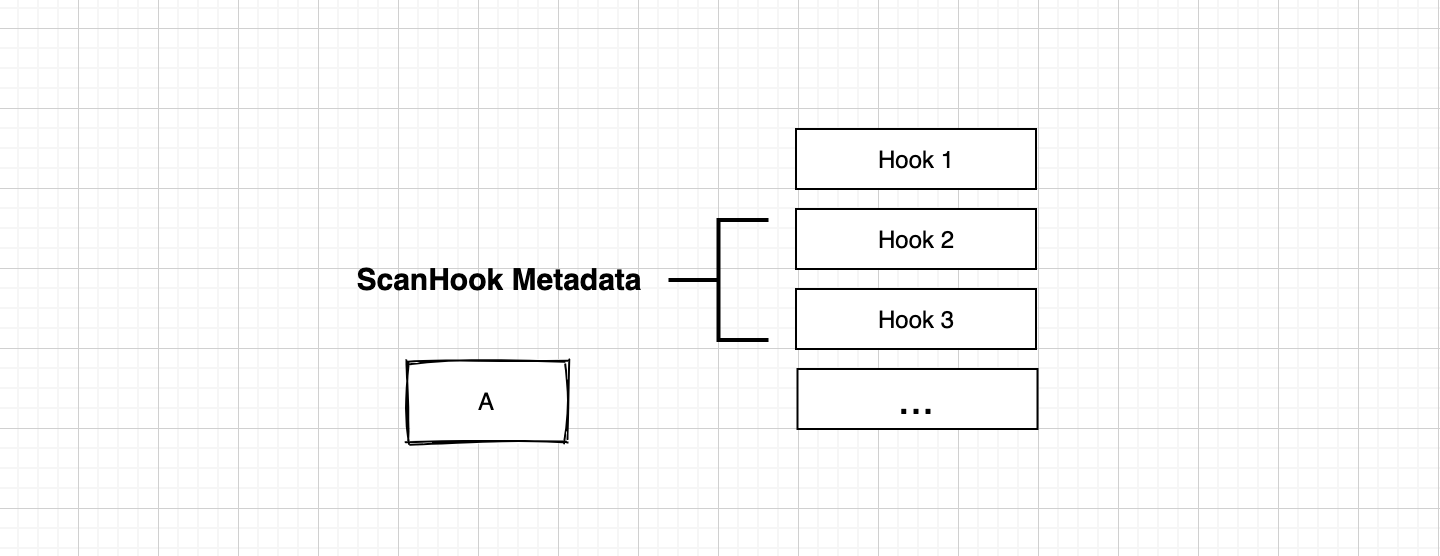
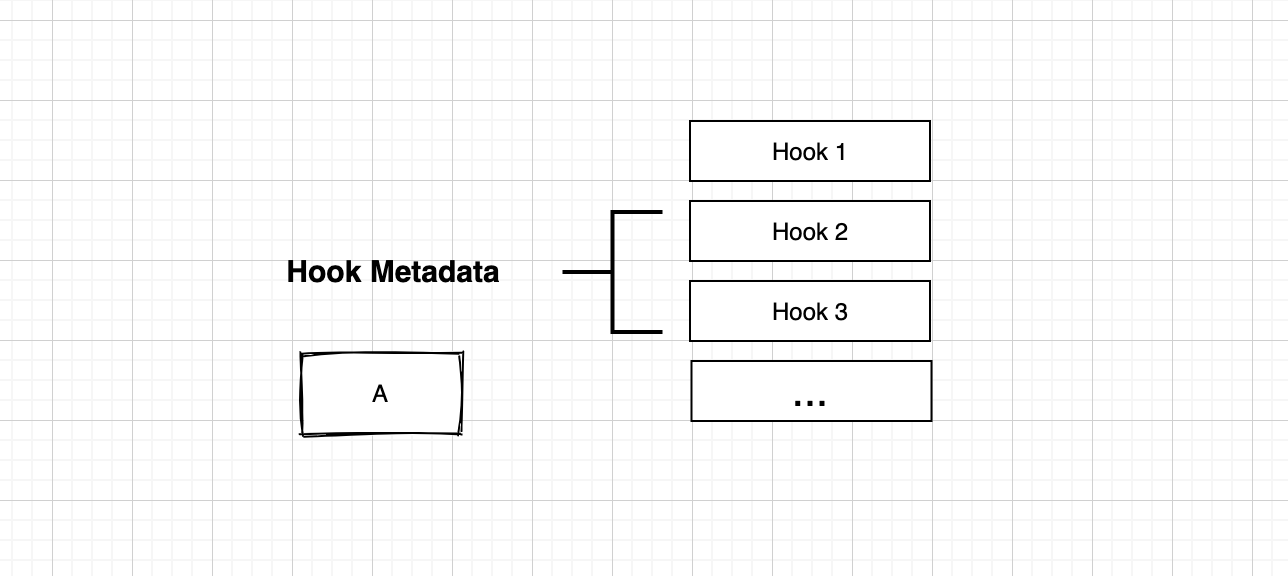
feat: refactor  decorate scan hook to hook

diff --git a/src/utils/scanner.test.ts b/src/utils/scanner.test.ts
@@ -1,4 +1,4 @@
-import { NameMetadata, ParentMetadata, ScanHookMetadata } from '../metadata';
+import { NameMetadata, ParentMetadata, HookMetadata } from '../metadata';
 import { scan } from './scanner';
 describe('utils: scanner', () => {
   it('scan node should have correctly execute order', async () => {
@@ -7,12 +7,12 @@ describe('utils: scanner', () => {
 
     function B(){};
     NameMetadata.defineMetadata(B);
-    ScanHookMetadata.defineMetadata(B, async (_:any, next: Function)=>{
+    HookMetadata.defineMetadata(B, async (_:any, next: Function)=>{
       fn('B_1_start')
       await next();
       fn('B_1_end')
     });
-    ScanHookMetadata.defineMetadata(B, async (_:any, next: Function)=>{
+    HookMetadata.defineMetadata(B, async (_:any, next: Function)=>{
       fn('B_2_start')
       await next();
       fn('B_2_end')
@@ -20,12 +20,12 @@ describe('utils: scanner', () => {
 
     function E() {};
     NameMetadata.defineMetadata(E);
-    ScanHookMetadata.defineMetadata(E, async (_:any, next: Function)=>{
+    HookMetadata.defineMetadata(E, async (_:any, next: Function)=>{
       fn('E_1_start')
       await next();
       fn('E_1_end')
     });
-    ScanHookMetadata.defineMetadata(E, async (_:any, next: Function)=>{
+    HookMetadata.defineMetadata(E, async (_:any, next: Function)=>{
       fn('E_2_start')
       await next();
       fn('E_2_end')
@@ -33,13 +33,13 @@ describe('utils: scanner', () => {
 
     function C(){};
     NameMetadata.defineMetadata(C);
-    ScanHookMetadata.defineMetadata(C, async (_:any, next: Function)=>{
+    HookMetadata.defineMetadata(C, async (_:any, next: Function)=>{
       fn('C_1_start')
       await next();
       fn('C_1_end')
     });
 
-    ScanHookMetadata.defineMetadata(C, async (_:any, next: Function)=>{
+    HookMetadata.defineMetadata(C, async (_:any, next: Function)=>{
       fn('C_2_start')
       await next();
       fn('C_2_end')
@@ -51,12 +51,12 @@ describe('utils: scanner', () => {
 
     function D() {};
     NameMetadata.defineMetadata(D);
-    ScanHookMetadata.defineMetadata(D, async (_:any, next: Function)=>{
+    HookMetadata.defineMetadata(D, async (_:any, next: Function)=>{
       fn('D_1_start')
       await next();
       fn('D_1_end')
     });
-    ScanHookMetadata.defineMetadata(D, async (_:any, next: Function)=>{
+    HookMetadata.defineMetadata(D, async (_:any, next: Function)=>{
       fn('D_2_start')
       await next();
       fn('D_2_end')
@@ -64,12 +64,12 @@ describe('utils: scanner', () => {
 
     function A() {};
     NameMetadata.defineMetadata(A);
-    ScanHookMetadata.defineMetadata(A, async (_:any, next: Function)=>{
+    HookMetadata.defineMetadata(A, async (_:any, next: Function)=>{
       fn('A_1_start')
       await next();
       fn('A_1_end')
     });
-    ScanHookMetadata.defineMetadata(A, async (_:any, next: Function)=>{
+    HookMetadata.defineMetadata(A, async (_:any, next: Function)=>{
       fn('A_2_start')
       await next();
       fn('A_2_end')

diff --git a/src/metadata/HookMetadata.test.ts b/src/metadata/HookMetadata.test.ts
@@ -1,4 +1,4 @@
-import { ScanHookMetadata } from './ScanHookMetadata';
+import { HookMetadata } from './HookMetadata';
 import * as hookUtil from '../utils/hookUtil';
 
 describe('decorators: ScanPriority', () => {
@@ -6,7 +6,7 @@ describe('decorators: ScanPriority', () => {
     const fn = jest.fn();
 
     class A {};
-    ScanHookMetadata.defineMetadata(A, [
+    HookMetadata.defineMetadata(A, [
       async (_:any, next: Function) => {
         fn('1-1');
         await next();
@@ -19,7 +19,7 @@ describe('decorators: ScanPriority', () => {
       }
     ])
 
-    ScanHookMetadata.defineMetadata(A, [
+    HookMetadata.defineMetadata(A, [
       async (_:any, next: Function) => {
         fn('3-1');
         await next();
@@ -31,13 +31,13 @@ describe('decorators: ScanPriority', () => {
         fn('4-2');
       }
     ])
-    ScanHookMetadata.defineMetadata(A, async (_:any, next: Function) => {
+    HookMetadata.defineMetadata(A, async (_:any, next: Function) => {
       fn('5-1');
       await next();
       fn('5-2');
     })
 
-    await hookUtil.nestHooks(ScanHookMetadata.getMetadata(A))();
+    await hookUtil.nestHooks(HookMetadata.getMetadata(A))();
 
     expect(fn.mock.calls).toEqual([
       ['1-1'],

diff --git a/src/utils/scanner.ts b/src/utils/scanner.ts
@@ -1,7 +1,7 @@
 import { IScanNode, IScanContext } from "../interfaces";
 import {
   ParentMetadata,
-  ScanHookMetadata,
+  HookMetadata,
   ScanPriorityMetadata,
   ScanPrioritySortCompareMetadata,
   NameMetadata,
@@ -45,7 +45,7 @@ function buildScanNodeHook(scanNode:IScanNode, scanNodeHook: Function):Function 
     context.timeCost = new Date().getTime() - now;
   }
 
-  const selfHook:Function = hookUtil.nestHooks(ScanHookMetadata.getMetadata(scanNode.provider));
+  const selfHook:Function = hookUtil.nestHooks(HookMetadata.getMetadata(scanNode.provider));
   const childrenHook:Function = ChildrenHooksCompositeFunctionMetadata.getMetadata(scanNode.provider)(
     scanNode.children.map((childScanNode:IScanNode):Function => {
       return buildScanNodeHook(childScanNode, scanNodeHook);

diff --git a/src/metadata/HookMetadata.ts b/src/metadata/HookMetadata.ts
@@ -7,17 +7,17 @@ const noopHooks = [
   }
 ];
 
-export class ScanHookMetadata {
+export class HookMetadata {
   /**
    * define the metadata of hooks
    */
   static defineMetadata(target: object, hooks: Function | Function[]):void {
-    Metadata.defineInsertEndArrayMetadata(ScanHookMetadata,
+    Metadata.defineInsertEndArrayMetadata(HookMetadata,
       Array.isArray(hooks) ?
       hooks : [ hooks ], target);
   }
 
   static getMetadata(target: object): Function[] {
-    return Metadata.getMetadata(ScanHookMetadata, target) || noopHooks;
+    return Metadata.getMetadata(HookMetadata, target) || noopHooks;
   }
 }

diff --git a/src/metadata/index.ts b/src/metadata/index.ts
@@ -1,6 +1,6 @@
 export * from './Metadata';
 export * from './NameMetadata';
 export * from './ParentMetadata';
-export * from './ScanHookMetadata';
+export * from './HookMetadata';
 export * from './ScanPriorityMetadata';
 export * from './ChildrenHooksCompositeFunctionMetadata';

diff --git a/src/metadata/ScanPriorityMetadata.test.ts b/src/metadata/ScanPriorityMetadata.test.ts
@@ -13,7 +13,6 @@ function createScanNode(priority: number):IScanNode {
     priority,
     name: null,
     namePaths: [],
-    namePath: '',
   }
 }
 

diff --git a/README.md b/README.md
@@ -83,12 +83,12 @@ ParentMetadata.defineMetadata(
 // we can easily use the `ParentMetadata` to build a tree structure which is composite of `providers` just the above diagram.
 ```
 
-### ScanHookMetadata
+### HookMetadata
 
-Here is a `ScanHookMetadata` which can define the metadata `hooks` to `Provider`.
+Here is a `HookMetadata` which can define the metadata `hooks` to `Provider`.
 And the hook will execute in scan process.
 
-![scan-hook-metadata](./docs/assets/scan-hook-metadata.png)
+![hook-metadata](./docs/assets/scan-hook-metadata.png)
 
 #### Single Provider Hooks Execute Model
 
